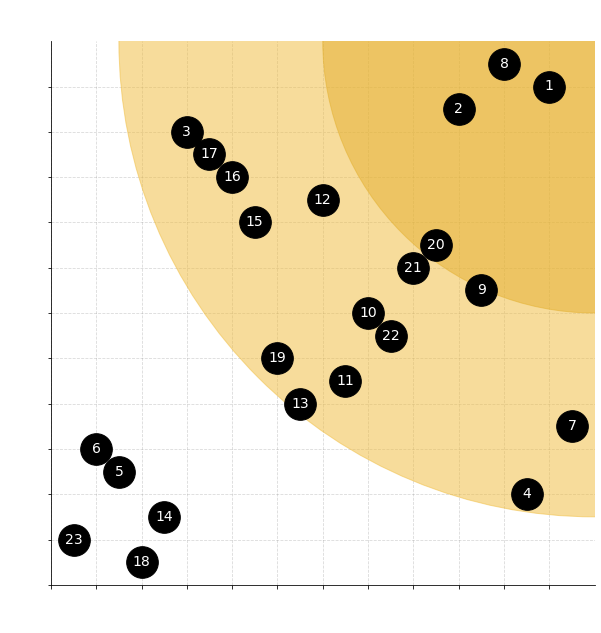
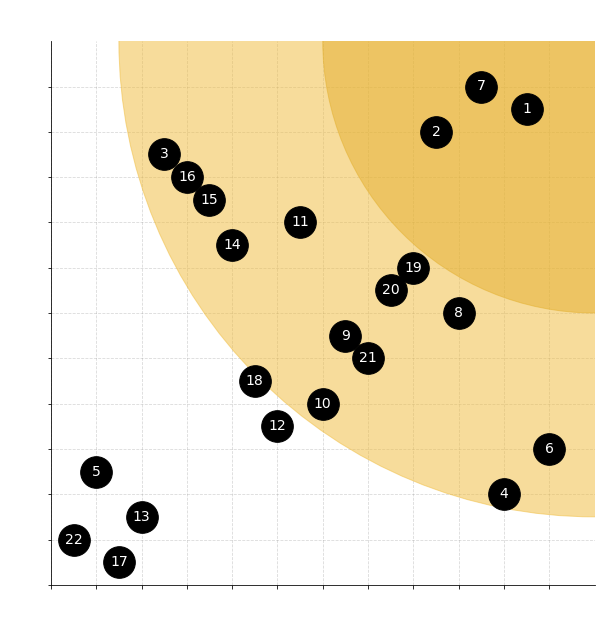
docs: make sure priority chart story numbers match up

diff --git a/README.md b/README.md
@@ -43,7 +43,6 @@
 - [Credits](#credits)
   - [Media](#media)
   - [Code](#code)
-  - [Reference material](#reference-material)
 - [Acknowledgements](#acknowledgements)
 
 [Live site](https://the-chocolate-factory.herokuapp.com/)
@@ -89,6 +88,7 @@ Through these relationships and with the support of the cacao producers, we can 
 Consumers that love and appreciate quality chocolate, where it comes from, the care that goes into making it and the health benefits it provides.
 
 ### Personas
+
 Arthur and Marie, both 44, married, parents. Arthur is an old-fashioned romantic that likes to treat his wife with flowers and chocolates, and will make sure to find something that she's happy with. Marie is environmentally conscious and enjoys high-quality products. She works in Marketing and appreciates good branding too.
 
 Nina, 26, single. Works remotely and travels the world - a "digital nomad". Loves getting lost in the cultures of different countries and is aware of difficulties that some communities have. She donates to charities often that help to boost economies in developing countries, helping entrepreneurs to start businesses for example. She always looks for companies with a similar mission to buy gifts for family and friends back home.
@@ -107,56 +107,54 @@ Nina, 26, single. Works remotely and travels the world - a "digital nomad". Love
 ### User Stories
 4. As a consumer, I want to see an interesting homepage with information on the store and the type of products it sells.
 5. As a consumer, I want to subscribe to a newsletter to receive updates about the store.
-6. As a consumer that's already subscribed, I want to unsubscribe from the newsletter when I don't want to receive it anymore.
-7. As a consumer, I want to register my profile so I can save my personal information for future shopping.
-8. As a consumer, I want to view the list of products available so I can see what the store has to offer.
-9. As a consumer, I want to see the products by category to narrow down my search.
-10. As a consumer, I want to filter the products to narrow down my search.
-11. As a consumer, I want to search products so I can find something specific.
-12. As a consumer, I want to add products to my cart so I can save them for purchasing later.
-13. As a consumer, I want to remove products from my cart if I change my mind.
-14. As a consumer, I want to adjust the quantities of items in my card so I can buy more/less of the same item.
-15. As a consumer, I want to a checkout process so I can review my cart and add my details to complete my purchase.
-16. As a consumer, I want to provide my card details so I can pay for the products in my cart.
-17. As a consumer, I want to have my payment processed so I can complete my order.
-18. As a consumer with a profile, I want my details to be autofilled to make purchases quicker and easier.
-19. As a consumer, I want to see feedback on my actions, such as order completion, to confirm what action I've taken.
+6. As a consumer, I want to register my profile so I can save my personal information for future shopping.
+7. As a consumer, I want to view the list of products available so I can see what the store has to offer.
+8. As a consumer, I want to see the products by category to narrow down my search.
+9.  As a consumer, I want to filter the products to narrow down my search.
+10. As a consumer, I want to search products so I can find something specific.
+11. As a consumer, I want to add products to my cart so I can save them for purchasing later.
+12. As a consumer, I want to remove products from my cart if I change my mind.
+13. As a consumer, I want to adjust the quantities of items in my card so I can buy more/less of the same item.
+14. As a consumer, I want a checkout process so I can review my cart and add my details to complete my purchase.
+15. As a consumer, I want to provide my card details so I can pay for the products in my cart.
+16. As a consumer, I want to have my payment processed so I can complete my order.
+17. As a consumer with a profile, I want my details to be autofilled to make purchases quicker and easier.
+18. As a consumer, I want to see feedback on my actions, such as order completion, to confirm what action I've taken.
 
 ### User (Owner) Stories
-20. As the store owner, I want to add products to the store as our range evolves and we add variety.
-21. As the store owner, I want to update products when prices change and ensure the description is up to date.
-22. As the store owner, I want to delete products when they're no longer available.
-23. As the store owner, I want to send newsletters to our mailing list to share store news and updates.
+19. As the store owner, I want to add products to the store as our range evolves and we add variety.
+20. As the store owner, I want to update products when prices change and ensure the description is up to date.
+21. As the store owner, I want to delete products when they're no longer available.
+22. As the store owner, I want to send newsletters to our mailing list to share store news and updates.
 
 I ranked the user stories by order of importance and how feasible/viable they are to complete. This let me chart the resulting numbers (see priority chart below) to help work out whether or not to include the features in the project given the constraints. The chart was created in a [Jupyter notebook with `matplotlib`](/docs/planning/priority-chart.md).
 
 The priorities are "critical", "need", "nice to have", "want". I made sure to get all of the "critical" and "needed" features into the first version of the app, and any "nice to haves" that I had time for. The "wants" can be added to a later version.
 
-Feature	| Importance	| Feasibility/Viability | Priority
---- | :---: | :---: | ---
-Responsive design | 22 | 22 | critical
-Accessible design | 21 | 18 | critical
-Secure data | 20 | 6 | need
-Awesome homepage | 4 | 21 | nice to have
-Newsletter subscribe | 5 | 3 | want
-Newsletter unsubscribe | 6 | 2 | want
-Create a profile | 7 | 23 | need
-View products | 23 | 20 | critical
-Product category pages | 13 | 19 | need
-Product filters | 12 | 14 | nice to have
-Search form | 9 | 13 | nice to have
-Add products to cart | 17 | 12 | need
-Remove products from cart | 8 | 11 | nice to have
-Edit qty of products in cart | 3 | 5 | want
-Cart review and checkout | 16 | 9 | need
-Provide payment details | 18 | 8 | need
-Process payment | 19 | 7 | need
-Autofill saved data at checkout | 1 | 4 | want
-Action feedback | 10 | 10 | need
-Add products to store | 15 | 17 | critical
-Update products in store | 14 | 16 | need
-Remove products from store | 11 | 15 | need
-Send newsletters | 2 | 1 | want
+Story no. | Feature | Importance | Feasibility/Viability | Priority
+:---: | --- | :---: | :---: | ---
+1 | Responsive design | 21 | 21 | critical
+2 | Accessible design | 20 | 17 | critical
+3 | Secure data | 19 | 5 | need
+4 | Awesome homepage | 4 | 20 | nice to have
+5 | Newsletter subscribe | 5 | 2 | want
+6 | Create a profile | 6 | 22 | need
+7 | View products | 22 | 19 | critical
+8 | Product category pages | 12 | 18 | need
+9 | Product filters | 11 | 13 | nice to have
+10 | Search form | 8 | 12 | nice to have
+11 | Add products to cart | 16 | 11 | need
+12 | Remove products from cart | 7 | 10 | nice to have
+13 | Edit qty of products in cart | 3 | 4 | want
+14 | Cart review and checkout | 15 | 8 | need
+15 | Provide payment details | 17 | 7 | need
+16 | Process payment | 18 | 6 | need
+17 | Autofill saved data at checkout | 1 | 3 | want
+18 | Action feedback | 9 | 9 | need
+19 | Add products to store | 14 | 16 | critical
+20 | Update products in store | 13 | 15 | need
+21 | Remove products from store | 10 | 14 | need
+22 | Send newsletters | 2 | 1 | want
 
 <details><summary>Priority chart</summary>
 <img src="docs/planning/priority-chart.png">
@@ -269,9 +267,9 @@ Please see the [Testing page](TESTING.md) for information on testing and validat
 
 ## Libraries / Frameworks
 
-- Django
-- Bootstrap 5
-- Font Awesome
+- Django 3.2
+- Bootstrap 5.2
+- Font Awesome 6
 
 *Go back to the [top](#table-of-contents)*
 
@@ -382,14 +380,14 @@ For full functionality:
    heroku run python3 manage.py migrate --plan
    ```
 9.  When the deployment has succeeded, you can optionally create a new superuser:
-   ```sh
-   heroku run python manage.py createsuperuser
-   ```
-11. You can also optionally import the database if you've pushed it to Heroku:
-   ```sh
-   heroku run python manage.py loaddata db.json
-   ```
-   Else, tweak the `settings.py` file to connect to the Heroku PostgreSQL database and make migrations directly. Don't forget to change it back though!
+    ```sh
+    heroku run python manage.py createsuperuser
+    ```
+10. You can also optionally import the database if you've pushed it to Heroku:
+    ```sh
+    heroku run python manage.py loaddata db.json
+    ```
+    Else, tweak the `settings.py` file to connect to the Heroku PostgreSQL database and make migrations directly. Don't forget to change it back though! 
 
 *Go back to the [top](#table-of-contents)*
 
@@ -421,10 +419,10 @@ Below are the images I used.
 
 This project was pieced together from my own knowledge with help from Code Institute's resources and the reference material below.
 
-## Reference material
-
-[Django's documentation](https://docs.djangoproject.com/en/3.2/)
-[Bootstrap 5 documentation](https://getbootstrap.com/docs/5.2/getting-started/introduction/)
+- [Python's documentation](https://docs.python.org/3/index.html)
+- [Django's documentation](https://docs.djangoproject.com/en/3.2/)
+- [Bootstrap's documentation](https://getbootstrap.com/docs/5.2/getting-started/introduction/)
+- Hat tip to Justyna of Tiny Struggles for the [blog post on decimals](https://tinystruggles.com/posts/django_decimals/).
 
 *Go back to the [top](#table-of-contents)*
 

diff --git a/docs/planning/priority-chart.md b/docs/planning/priority-chart.md
@@ -14,8 +14,8 @@ import numpy as np
 import matplotlib.pyplot as plt
 
 # data
-feasibility = np.array([22, 18, 6, 21, 3, 2, 23, 20, 19, 14, 13, 12, 11, 5, 9, 8, 7, 4, 10, 17, 16, 15, 1])
-importance = np.array([22, 21, 20, 4, 5, 6, 7, 23, 13, 12, 9, 17, 8, 3, 16, 18, 19, 1, 10, 15, 14, 11, 2])
+feasibility = np.array([21, 17, 5, 20, 2, 22, 19, 18, 13, 12, 11, 10, 4, 8, 7, 6, 3, 9, 16, 15, 14, 1])
+importance = np.array([21, 20, 19, 4, 5, 6, 22, 12, 11, 8, 16, 7, 3, 15, 17, 18, 1, 9, 14, 13, 10, 2])
 
 #plot
 fig, ax = plt.subplots(1, figsize=(10,10))
